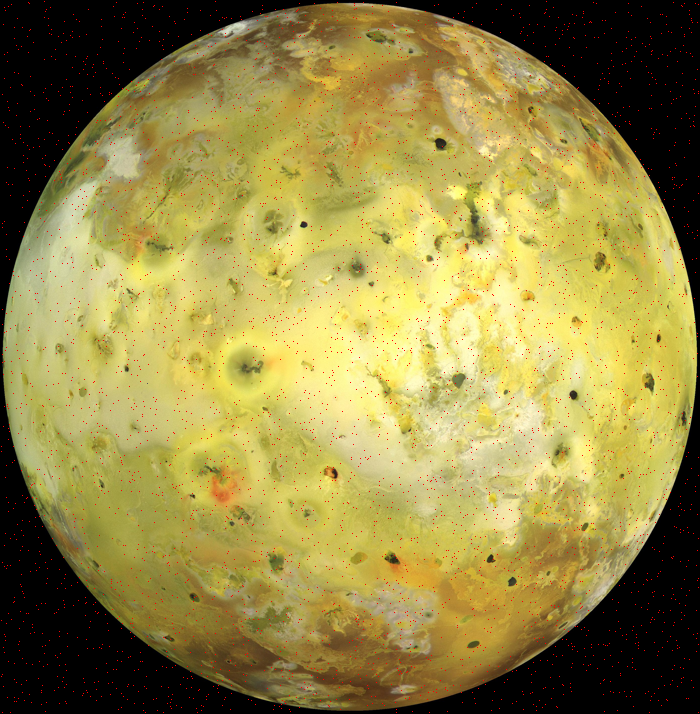
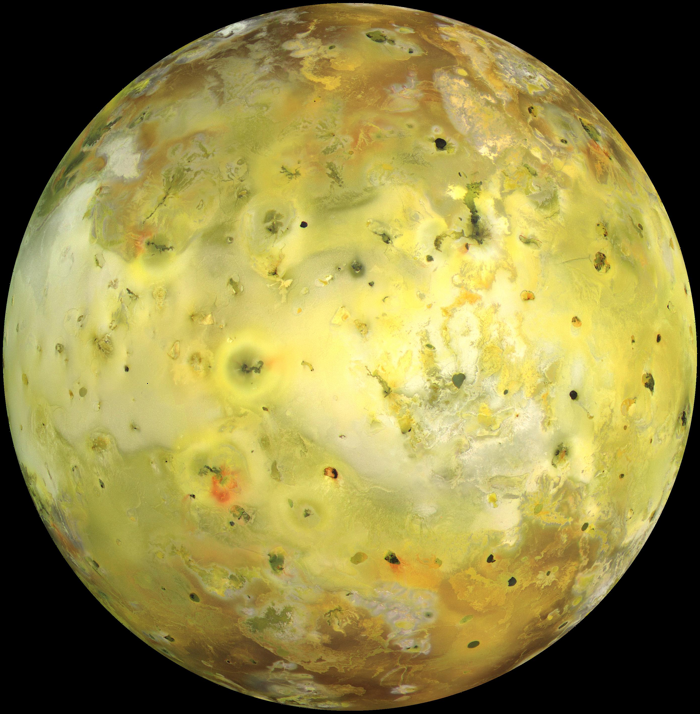
Simple fix working

diff --git a/module-3/pixelfixer.py b/module-3/pixelfixer.py
@@ -29,6 +29,16 @@ def pixelfix(I):
 
     ### YOUR WORK GOES HERE (with the agent, under the Protocol, in stages:
     ### 1. find the bad pixels and print how many;
+    i = 0
+    j = 0
+    count = 0
+    for i in range(Iq.shape[0]):
+        for j in range(Iq.shape[1]):
+            if Iq[i, j, 0] == 1 and Iq[i, j, 1] == 0 and Iq[i, j, 2] == 0:
+                Iq[i, j] = np.mean([Iq[i+1, j], Iq[i-1, j], Iq[i, j+1], Iq[i, j-1]], axis=0)
+                count += 1
+    print(f"Total bad pixels found: {count}")
+
     ### 2. paint them white and look at the result;
     ### 3. replace the white with the average of the up/down/left/right
     ###    neighbors. Then try solo_corrupt_io_small.png.)
